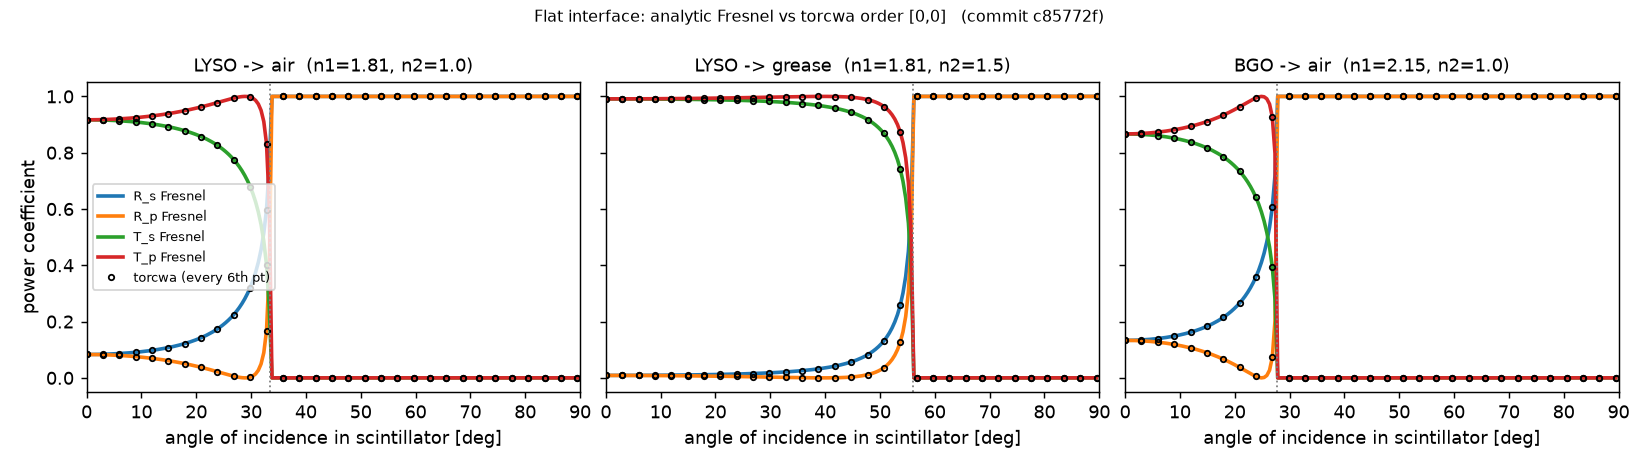
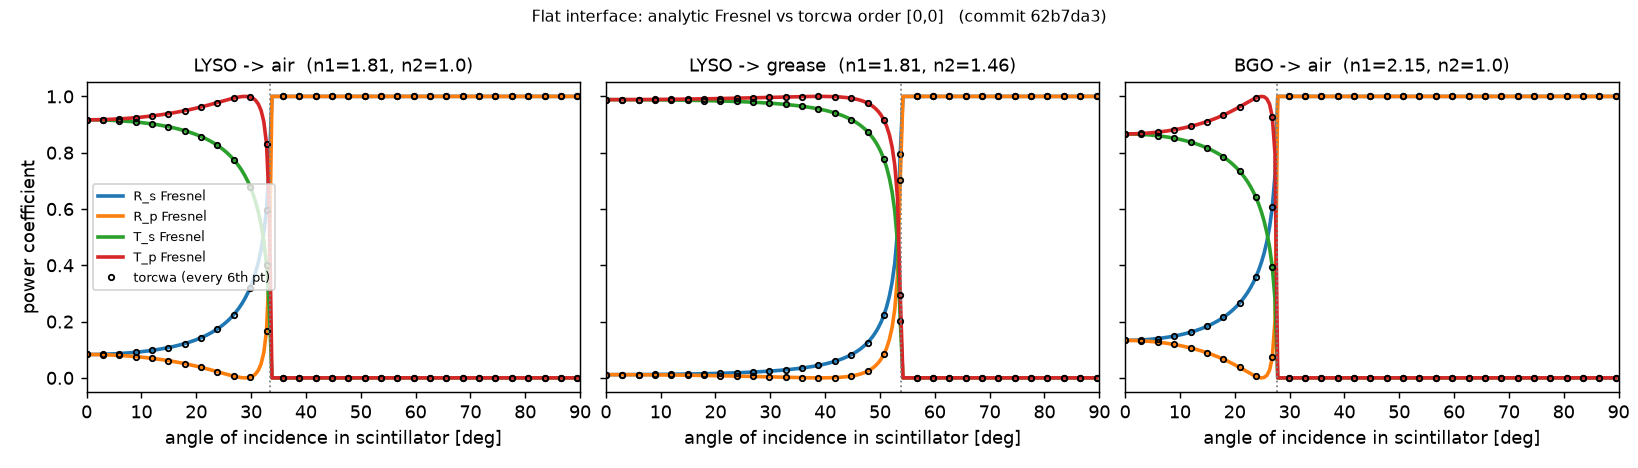
M1 results regenerated with the current materials (grease EJ-550, 1.46)
Running scripts/make_figures.py showed that results/m1_*.json and the M1
figure still came from the brief's grease index 1.5 (noted in the M1 status).
Regenerated with the current scripts; the status table now shows the 1.46
rows and keeps the 1.5 rows for comparison.

Changed region(s): [[0.3736, 0.1795, 0.5604, 0.8077], [0.3114, 0.0, 0.685, 0.0598], [0.4048, 0.1197, 0.6227, 0.1795]]

diff --git a/docs/status.md b/docs/status.md
@@ -626,23 +626,30 @@ Actions before any number is quoted.
 ## M1 — analytic baseline + flat-interface RCWA (done 2026-10-15, PR #1)
 
 ### Numbers produced
-From `results/m1_escape_cone.json` (`scripts/escape_cone.py`), produced before the
-grease index was changed to 1.46 (that change is in the M2 branch):
+From `results/m1_escape_cone.json` (`scripts/escape_cone.py`):
+- Regenerated on 2026-10-17 (M5) with the current materials: grease is EJ-550,
+  n = 1.46, since M2.
+- The values first reported in M1 used the brief's n = 1.5. Those rows are kept for
+  comparison.
 
 | Case | n1 | n2 | θc [deg] | η₁ | η₁ with Fresnel |
 |---|---|---|---|---|---|
 | LYSO → air | 1.81 | 1.0 | 33.54 | 8.32 % | 7.17 % |
-| LYSO → n = 1.5 | 1.81 | 1.5 | 55.97 | 22.02 % | 20.79 % |
+| LYSO → grease (EJ-550) | 1.81 | 1.46 | 53.77 | 20.45 % | 19.20 % |
 | BGO → air | 2.15 | 1.0 | 27.72 | 5.74 % | 4.69 % |
-| BGO → n = 1.5 | 2.15 | 1.5 | 44.24 | 14.18 % | 12.92 % |
+| BGO → grease (EJ-550) | 2.15 | 1.46 | 42.77 | 13.30 % | 12.04 % |
 | LYSO (Epic, 1.82) → air | 1.82 | 1.0 | 33.33 | 8.22 % | 7.07 % |
+| LYSO → n = 1.5 (brief) | 1.81 | 1.5 | 55.97 | 22.02 % | 20.79 % |
+| LYSO (Epic, 1.82) → n = 1.5 (brief) | 1.82 | 1.5 | 55.51 | 21.68 % | 20.45 % |
 
-Specular LYSO cuboid, fraction of directions that can ever escape: 49.94 % with six
-bare faces into air, 63.64 % with n = 1.5 on the readout face and air elsewhere.
+In a specular LYSO cuboid, the fraction of directions that can ever escape is:
+- 49.94 % with six bare faces into air;
+- 62.07 % with grease (1.46) on the readout face and air elsewhere (63.64 % with the
+  brief's 1.5).
 
-From `results/m1_fresnel_vs_rcwa.json`: torcwa at order [0,0] matches analytic Fresnel
-R and T, s and p, to at most 3e-14 over 0–89.5°. Figure:
-`docs/figures/m1_fresnel_vs_rcwa.png`.
+From `results/m1_fresnel_vs_rcwa.json` (regenerated 2026-10-17, grease 1.46): torcwa at
+order [0,0] matches analytic Fresnel R and T, s and p, to at most 3e-14 over
+0–89.5°. Figure: `docs/figures/m1_fresnel_vs_rcwa.png`.
 
 From `results/m1_rcwa_benchmark.json` (laptop, superseded by the remote benchmark):
 order 7 about 4 s, order 9 about 12 s, order 11 about 50 s per solve.
